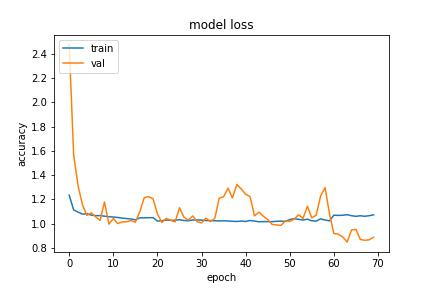
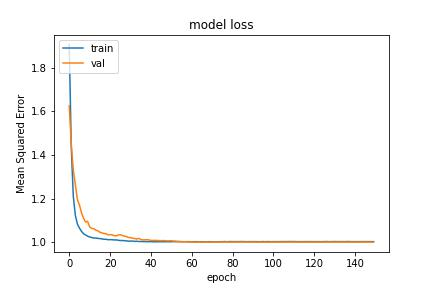
Stable Update

diff --git a/helper_funcs.py b/helper_funcs.py
@@ -30,7 +30,7 @@ def plotTrainingCurve(loss,val_loss, model_name):
     plt.plot(loss)
     plt.plot(val_loss)
     plt.title('model loss')
-    plt.ylabel('accuracy')
+    plt.ylabel('Mean Squared Error')
     plt.xlabel('epoch')
     plt.legend(['train', 'val'], loc='upper left')
     plt.savefig('Train_cruve_{}.jpg'.format(model_name))
